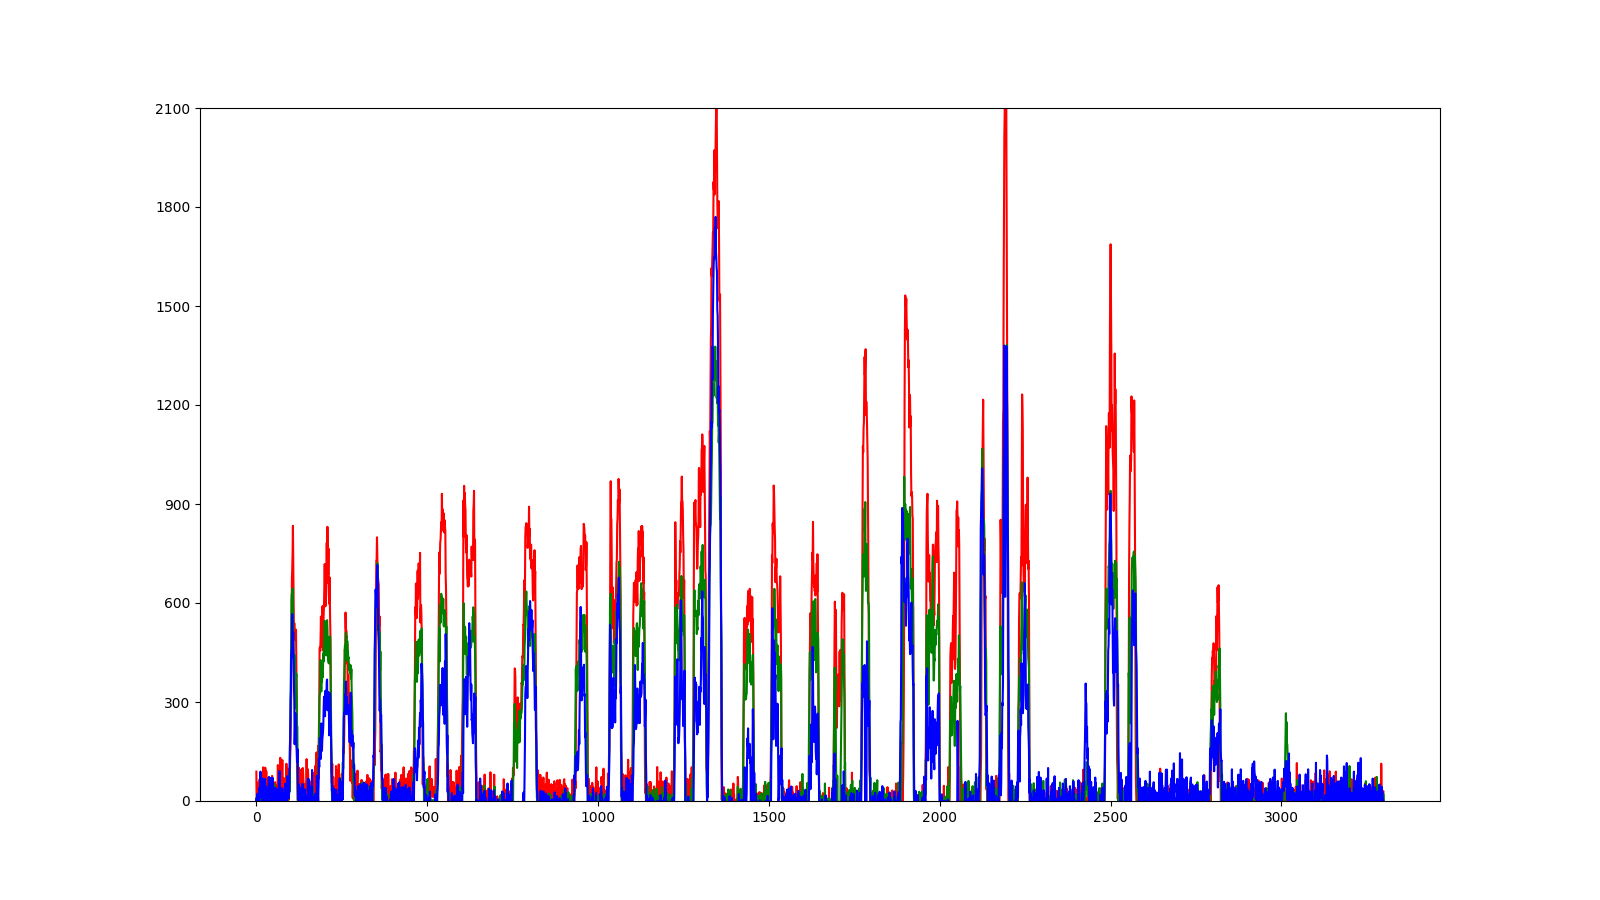
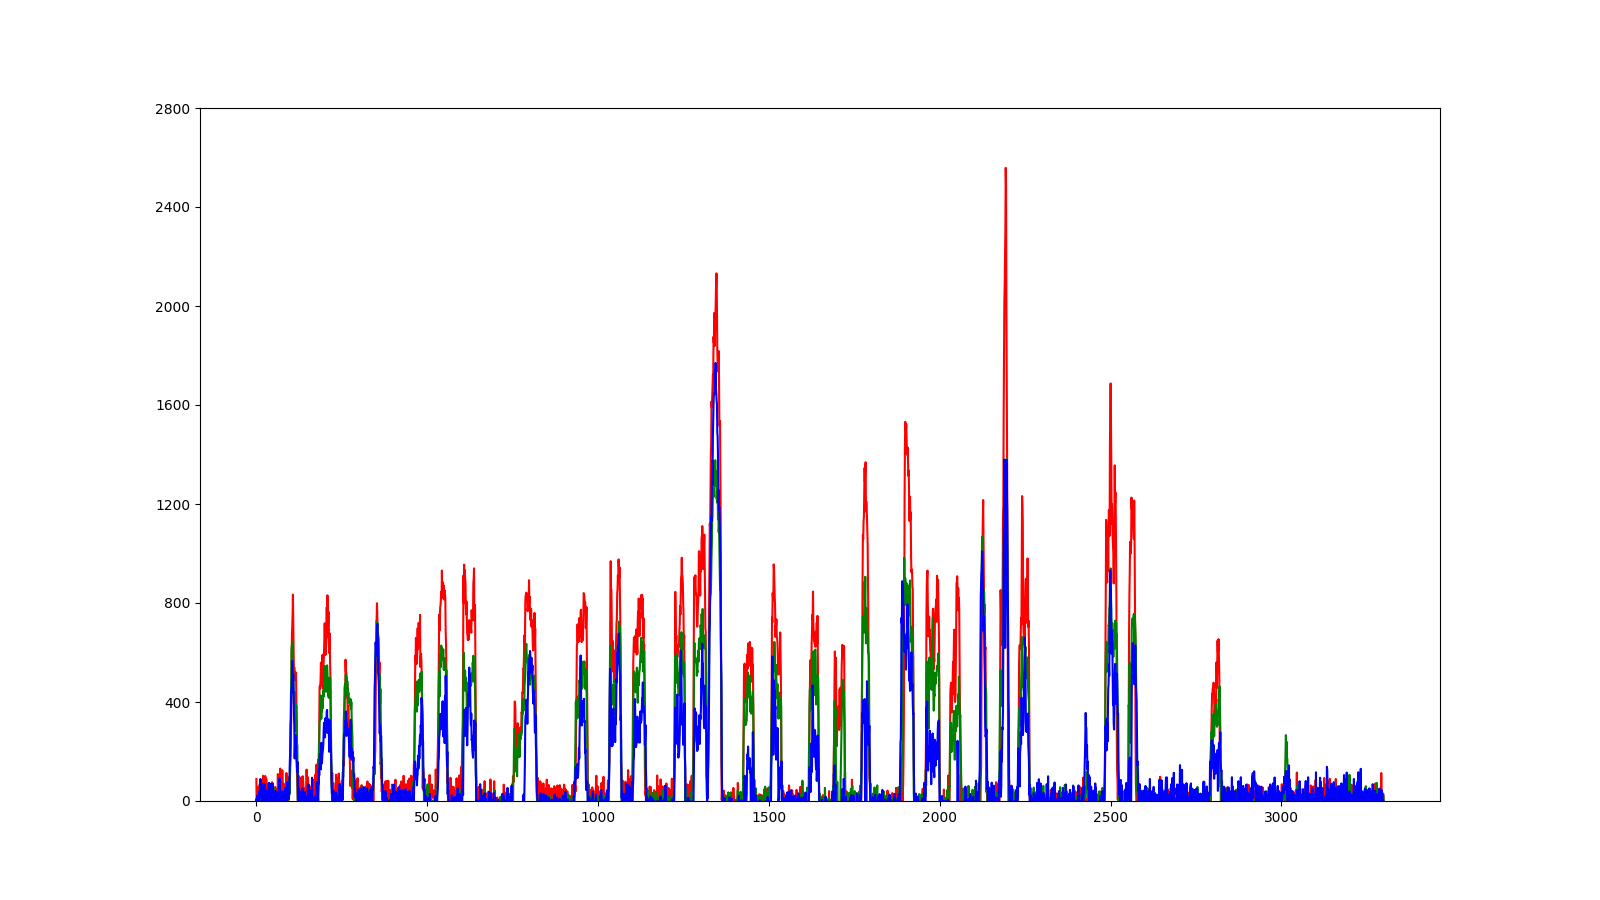
init

Changed region(s): [[0.1562, 0.1867, 0.875, 0.9022], [0.0938, 0.7778, 0.125, 0.8089], [0.0938, 0.2178, 0.125, 0.2489]]

diff --git a/Part3/classify.py b/Part3/classify.py
@@ -1,0 +1,60 @@
+import matplotlib.pyplot as plt
+
+from back_excl import *
+import numpy as np
+import sklearn
+from sklearn.cluster import KMeans
+
+
+def AMPD(data):
+    """
+    实现AMPD算法
+    :param data: 1-D numpy.ndarray
+    :return: 波峰所在索引值的列表
+    """
+    p_data = np.zeros_like(data, dtype=np.int32)
+    count = data.shape[0]
+    arr_rowsum = []
+    for k in range(1, count // 2 + 1):
+        row_sum = 0
+        for i in range(k, count - k):
+            if data[i] > data[i - k] and data[i] > data[i + k]:
+                row_sum -= 1
+        arr_rowsum.append(row_sum)
+    min_index = np.argmin(arr_rowsum)
+    max_window_length = min_index
+    for k in range(1, max_window_length + 1):
+        for i in range(k, count - k):
+            if data[i] > data[i - k] and data[i] > data[i + k]:
+                p_data[i] += 1
+    return np.where(p_data == max_window_length)[0]
+
+
+peak = [[[], [], []],
+        [[], [], []]]
+threshold = [[[], [], []],
+             [[], [], []]]
+for i in range(2):
+    # pic_f_env, ax = plt.subplots(1, 1, figsize=(16, 9))
+    # ax.set_ylim(0, 2800)
+    # ax.set_yticks(range(0, 2801, 400))
+    for j in range(3):
+        # ax.plot(range(3300), data_f_env[i][j], color=color[j])
+        peak[i][j].append(AMPD(data_f_env[i][j]))
+        data_tmp = data_f_env[i][j][peak[i][j]]
+        threshold[i][j].append(KMeans(3, max_iter=1000, n_init="auto").fit(data_tmp[0].reshape(-1, 1)))
+        # ax.scatter(peak[i][j], data_f_env[i][j][peak[i][j]], 100, color="black")
+    # plt.savefig("pic/peak_%d" % i)
+    # plt.show()
+
+print(threshold[0][0][0].labels_)
+
+for pic in range(2):
+    pic_p_f_env, ax = plt.subplots(1, 1, figsize=(16, 9))
+    ax.set_ylim(0, 2800)
+    ax.set_yticks(range(0, 2801, 400))
+    for channel in range(3):
+        pra_cla = threshold[pic][channel][0].labels_
+        for classify in pra_cla:
+            print(classify)
+           # ax.plot(peak[pic][channel])

diff --git a/Part3/drawpic.py b/Part3/drawpic.py
@@ -9,37 +9,39 @@ data = [pd.read_excel(excel_file[0]), pd.read_excel(excel_file[1]), pd.read_exce
 color = ["red", "green", "blue"]
 
 
-def draw(RGB_data, address):
+def draw(RGB_data, address, choose):
     RGB_color = ["red", "green", "blue"]
     pic, ax = plt.subplots(1, 1, figsize=(16, 9))
-    ax.set_ylim(0, 2100)
-    ax.set_yticks(range(0, 2101, 300))
+    ax.set_ylim(0, 2800)
+    ax.set_yticks(range(0, 2801, 400))
     for _ in range(3):
         test = RGB_data[_]
         ax.plot(range(3300), test, color=RGB_color[_])
-    # plt.show()
-    plt.savefig(address)
+    if choose:
+        plt.show()
+    else:
+        plt.savefig(address)
 
 
 if __name__ == "__main__":
     # 绘制初始图像数据
     for i in range(3):
         pic_ori, ax = plt.subplots(1, 1, figsize=(16, 9))
-        ax.set_ylim(0, 2100)
-        ax.set_yticks(range(0, 2101, 300))
+        ax.set_ylim(0, 2800)
+        ax.set_yticks(range(0, 2801, 400))
         for j in range(3):
             test = data[i][color[j]]
             ax.plot(range(3300), test, color=color[j])
-        plt.show()
-        # plt.savefig("pic/origin_%d" % i)
+        #plt.show()
+        plt.savefig("pic/origin_%d" % i)
 
     # 绘制去背景图像数据
     for i in range(2):
         pic_back_excl, ax = plt.subplots(1, 1, figsize=(16, 9))
-        ax.set_ylim(0, 2100)
-        ax.set_yticks(range(0, 2101, 300))
+        ax.set_ylim(0, 2800)
+        ax.set_yticks(range(0, 2801, 400))
         for j in range(3):
             back_excl = data[i][color[j]] - data[2][color[j]]
             ax.plot(range(3300), back_excl, color=color[j])
-        plt.show()
-        # plt.savefig("pic/back_excl_%d" % i)
+        # plt.show()
+        plt.savefig("pic/back_excl_%d" % i)

diff --git a/Part3/back_excl.py b/Part3/back_excl.py
@@ -11,10 +11,13 @@ data = [pd.read_excel(excel_file[0]), pd.read_excel(excel_file[1]), pd.read_exce
 color = ["red", "green", "blue"]
 
 back_excl = [data[0] - data[2], data[1] - data[2]]
-
-for _ in range(2):
-    test = [wavelet_noising(back_excl[_]["red"]),
-            wavelet_noising(back_excl[_]["green"]),
-            wavelet_noising(back_excl[_]["blue"])
-            ]
-    draw(test, "pic/excel_filter_%d"%_)
+data_f_env = [[wavelet_noising(back_excl[0]["red"]),
+               wavelet_noising(back_excl[0]["green"]),
+               wavelet_noising(back_excl[0]["blue"])],
+              [wavelet_noising(back_excl[1]["red"]),
+               wavelet_noising(back_excl[1]["green"]),
+               wavelet_noising(back_excl[1]["blue"])
+               ]]
+if __name__ == "__main__":
+    for _ in range(2):
+        draw(data_f_env[_], "pic/excel_filter_%d" % _, 0)

diff --git a/Part3/fliter.py b/Part3/fliter.py
@@ -86,4 +86,4 @@ if __name__ == "__main__":
                 wavelet_noising(data[_]["green"]),
                 wavelet_noising(data[_]["blue"])
                 ]
-        draw(test, "pic/filter_%d" % _)
+        draw(test, "pic/filter_%d" % _,0)
